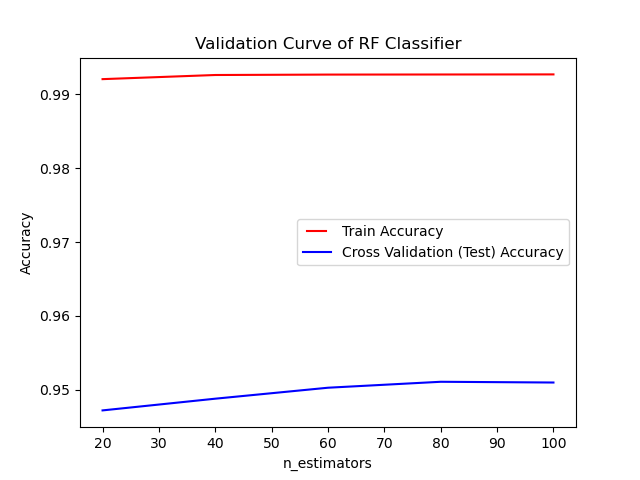
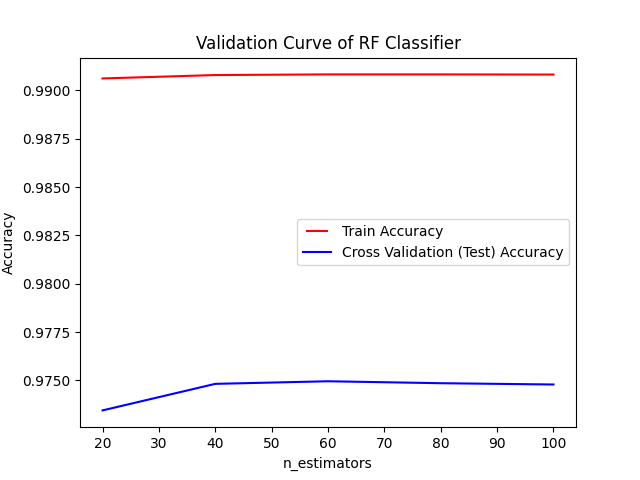
updated with outliers boxplots

diff --git a/1.5_class_balancing.py b/1.5_class_balancing.py
@@ -1,13 +1,56 @@
 import pandas as pd
 from imblearn.over_sampling import SMOTE
+import matplotlib.pyplot as plt
 
 def read_data(path):
     data = pd.read_csv(path, skipinitialspace=True)
     return data
 
+def reduce_outliers(df, column_names, remove=False):
+    outlier_indices = []
+    for column in column_names:
+        Q1 = df[column].quantile(0.25)
+        Q3 = df[column].quantile(0.75)
+        IQR = Q3 - Q1
+        lower_bound = Q1 - 1.5 * IQR
+        upper_bound = Q3 + 1.5 * IQR
+        
+        column_outliers = df.index[(df[column] < lower_bound) | (df[column] > upper_bound)]
+        outlier_indices.extend(column_outliers)
+    
+    outlier_indices = list(set(outlier_indices))  # Remove duplicates
+    if remove:
+        return df.drop(index=outlier_indices)
+    else:
+        return df.loc[outlier_indices]
+    
+
+def visualize_outliers(df, column_names):
+    for column in column_names:
+        plt.figure(figsize=(10, 6))
+        df.boxplot(column=[column])
+        plt.title(f"Box plot for {column}")
+        plt.show()
+    
 def main():
     train_cases = read_data('./all_data/partB/cleaned_data/train_cases.csv')
-
+    print(train_cases['Case_Fatality_Ratio'].value_counts())
+    
+    column_names_to_check = ['Case_Fatality_Ratio'] 
+    
+    # Visualizing outliers before removal
+    print("Before outlier removal:")
+    visualize_outliers(train_cases, column_names_to_check)
+    
+    # Removing outliers
+    train_cases_no_outliers = reduce_outliers(train_cases, column_names_to_check, remove=True)
+    print(train_cases_no_outliers['Case_Fatality_Ratio'].value_counts())
+    # Visualizing data after outlier removal
+    print("After outlier removal:")
+    visualize_outliers(train_cases_no_outliers, column_names_to_check)
+    
+    # We discover that removing the outliers make the prediction worst
+    
     # For train_cases
     # Display original outcome distribution in the training set
     train_cases_outcome = train_cases['outcome_group'].value_counts()
@@ -27,6 +70,8 @@ def main():
 
     print("Resampled outcome distribution in training data:\n", balanced_train_cases['outcome_group'].value_counts())
     balanced_train_cases.to_csv('./all_data/partB/balanced_data/train_cases.csv', index=False)
+
+
 
 if __name__ == '__main__':
     main()
